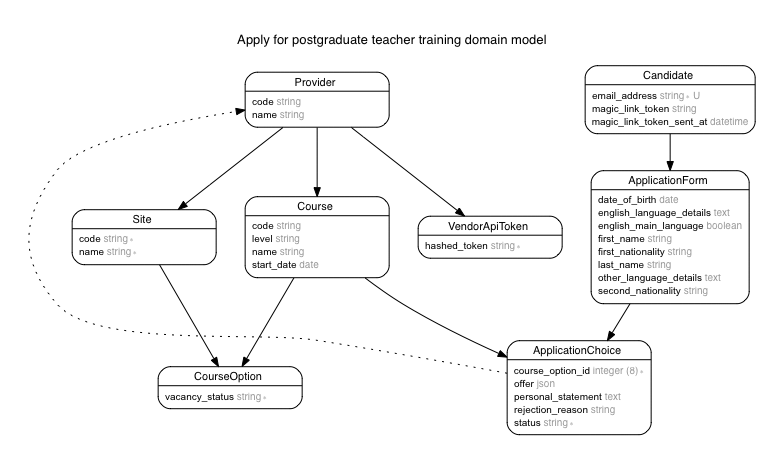
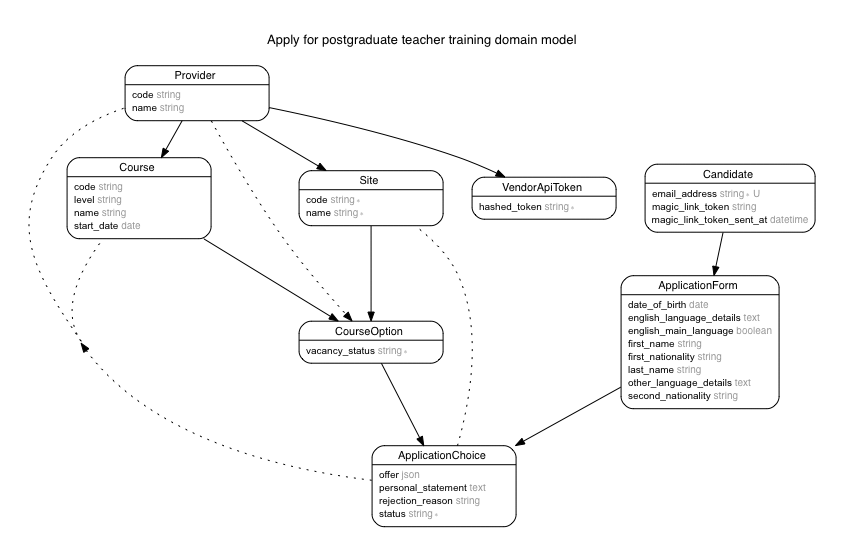
Add courses.level to database schema
This distinguishes primary, secondary and further education courses.

diff --git a/db/schema.rb b/db/schema.rb
@@ -72,6 +72,7 @@ ActiveRecord::Schema.define(version: 2019_10_21_122607) do
     t.string "code"
     t.datetime "created_at", precision: 6, null: false
     t.datetime "updated_at", precision: 6, null: false
+    t.string "level"
     t.index ["code"], name: "index_courses_on_code", unique: true
     t.index ["provider_id"], name: "index_courses_on_provider_id"
   end

diff --git a/db/migrate/20191018101658_add_courses_level.rb b/db/migrate/20191018101658_add_courses_level.rb
@@ -1,0 +1,5 @@
+class AddCoursesLevel < ActiveRecord::Migration[6.0]
+  def change
+    add_column :courses, :level, :string
+  end
+end
